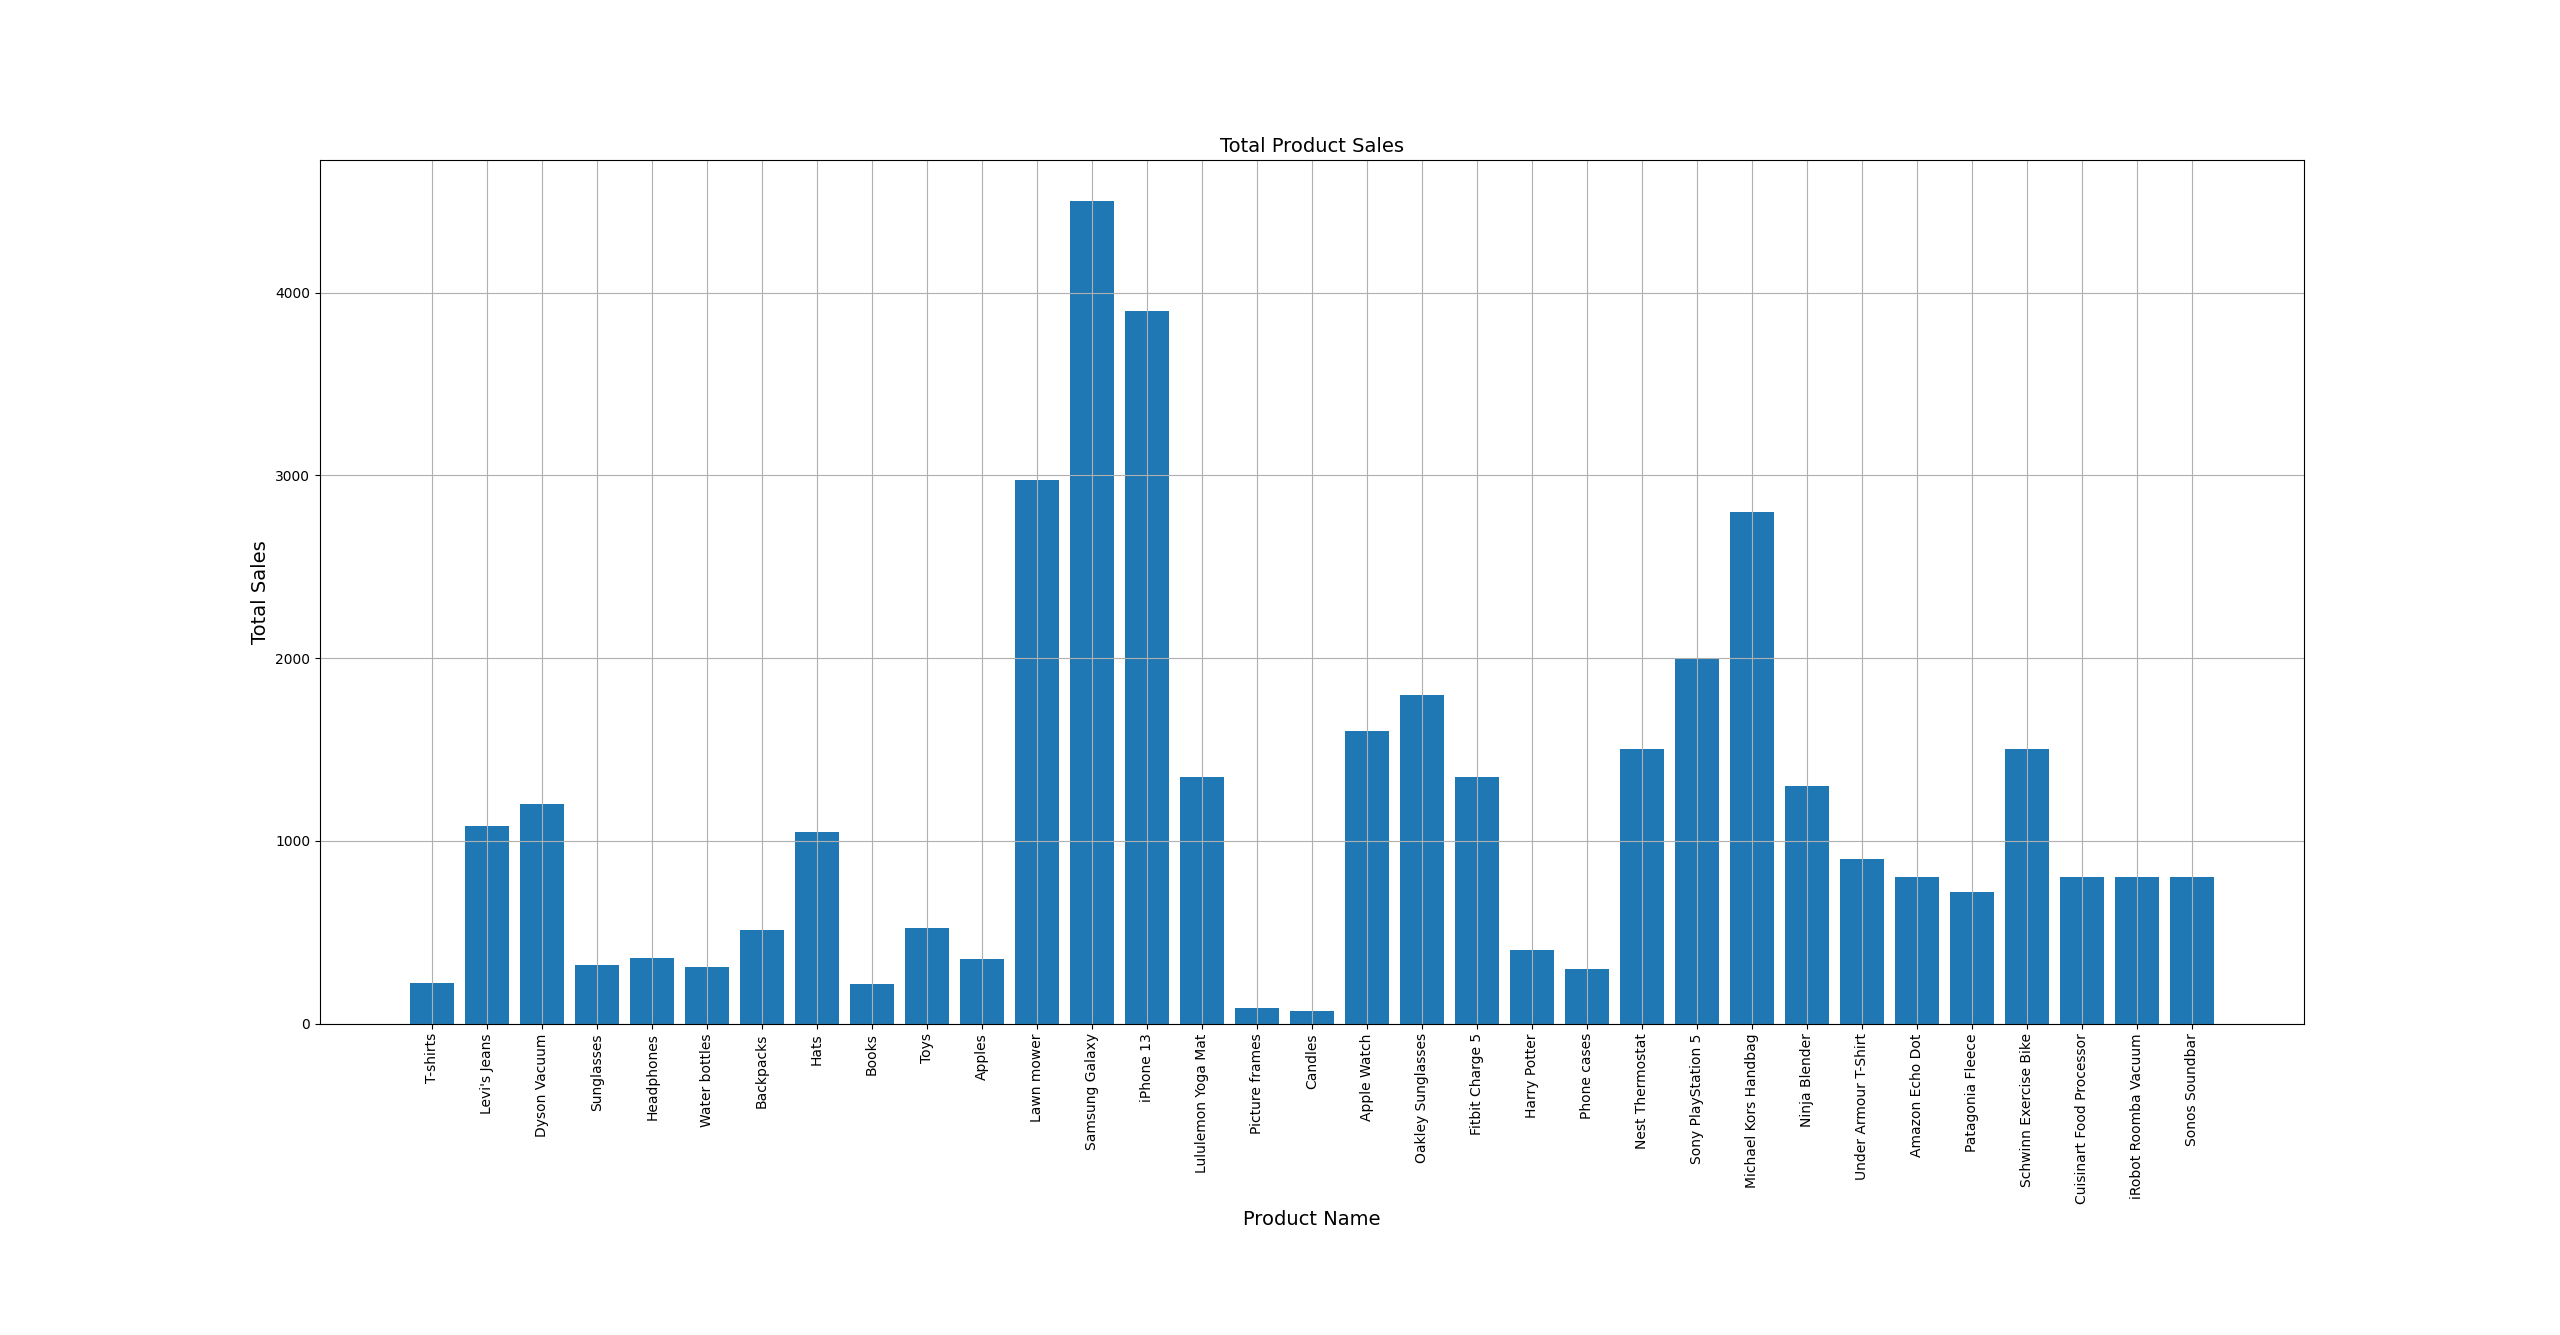
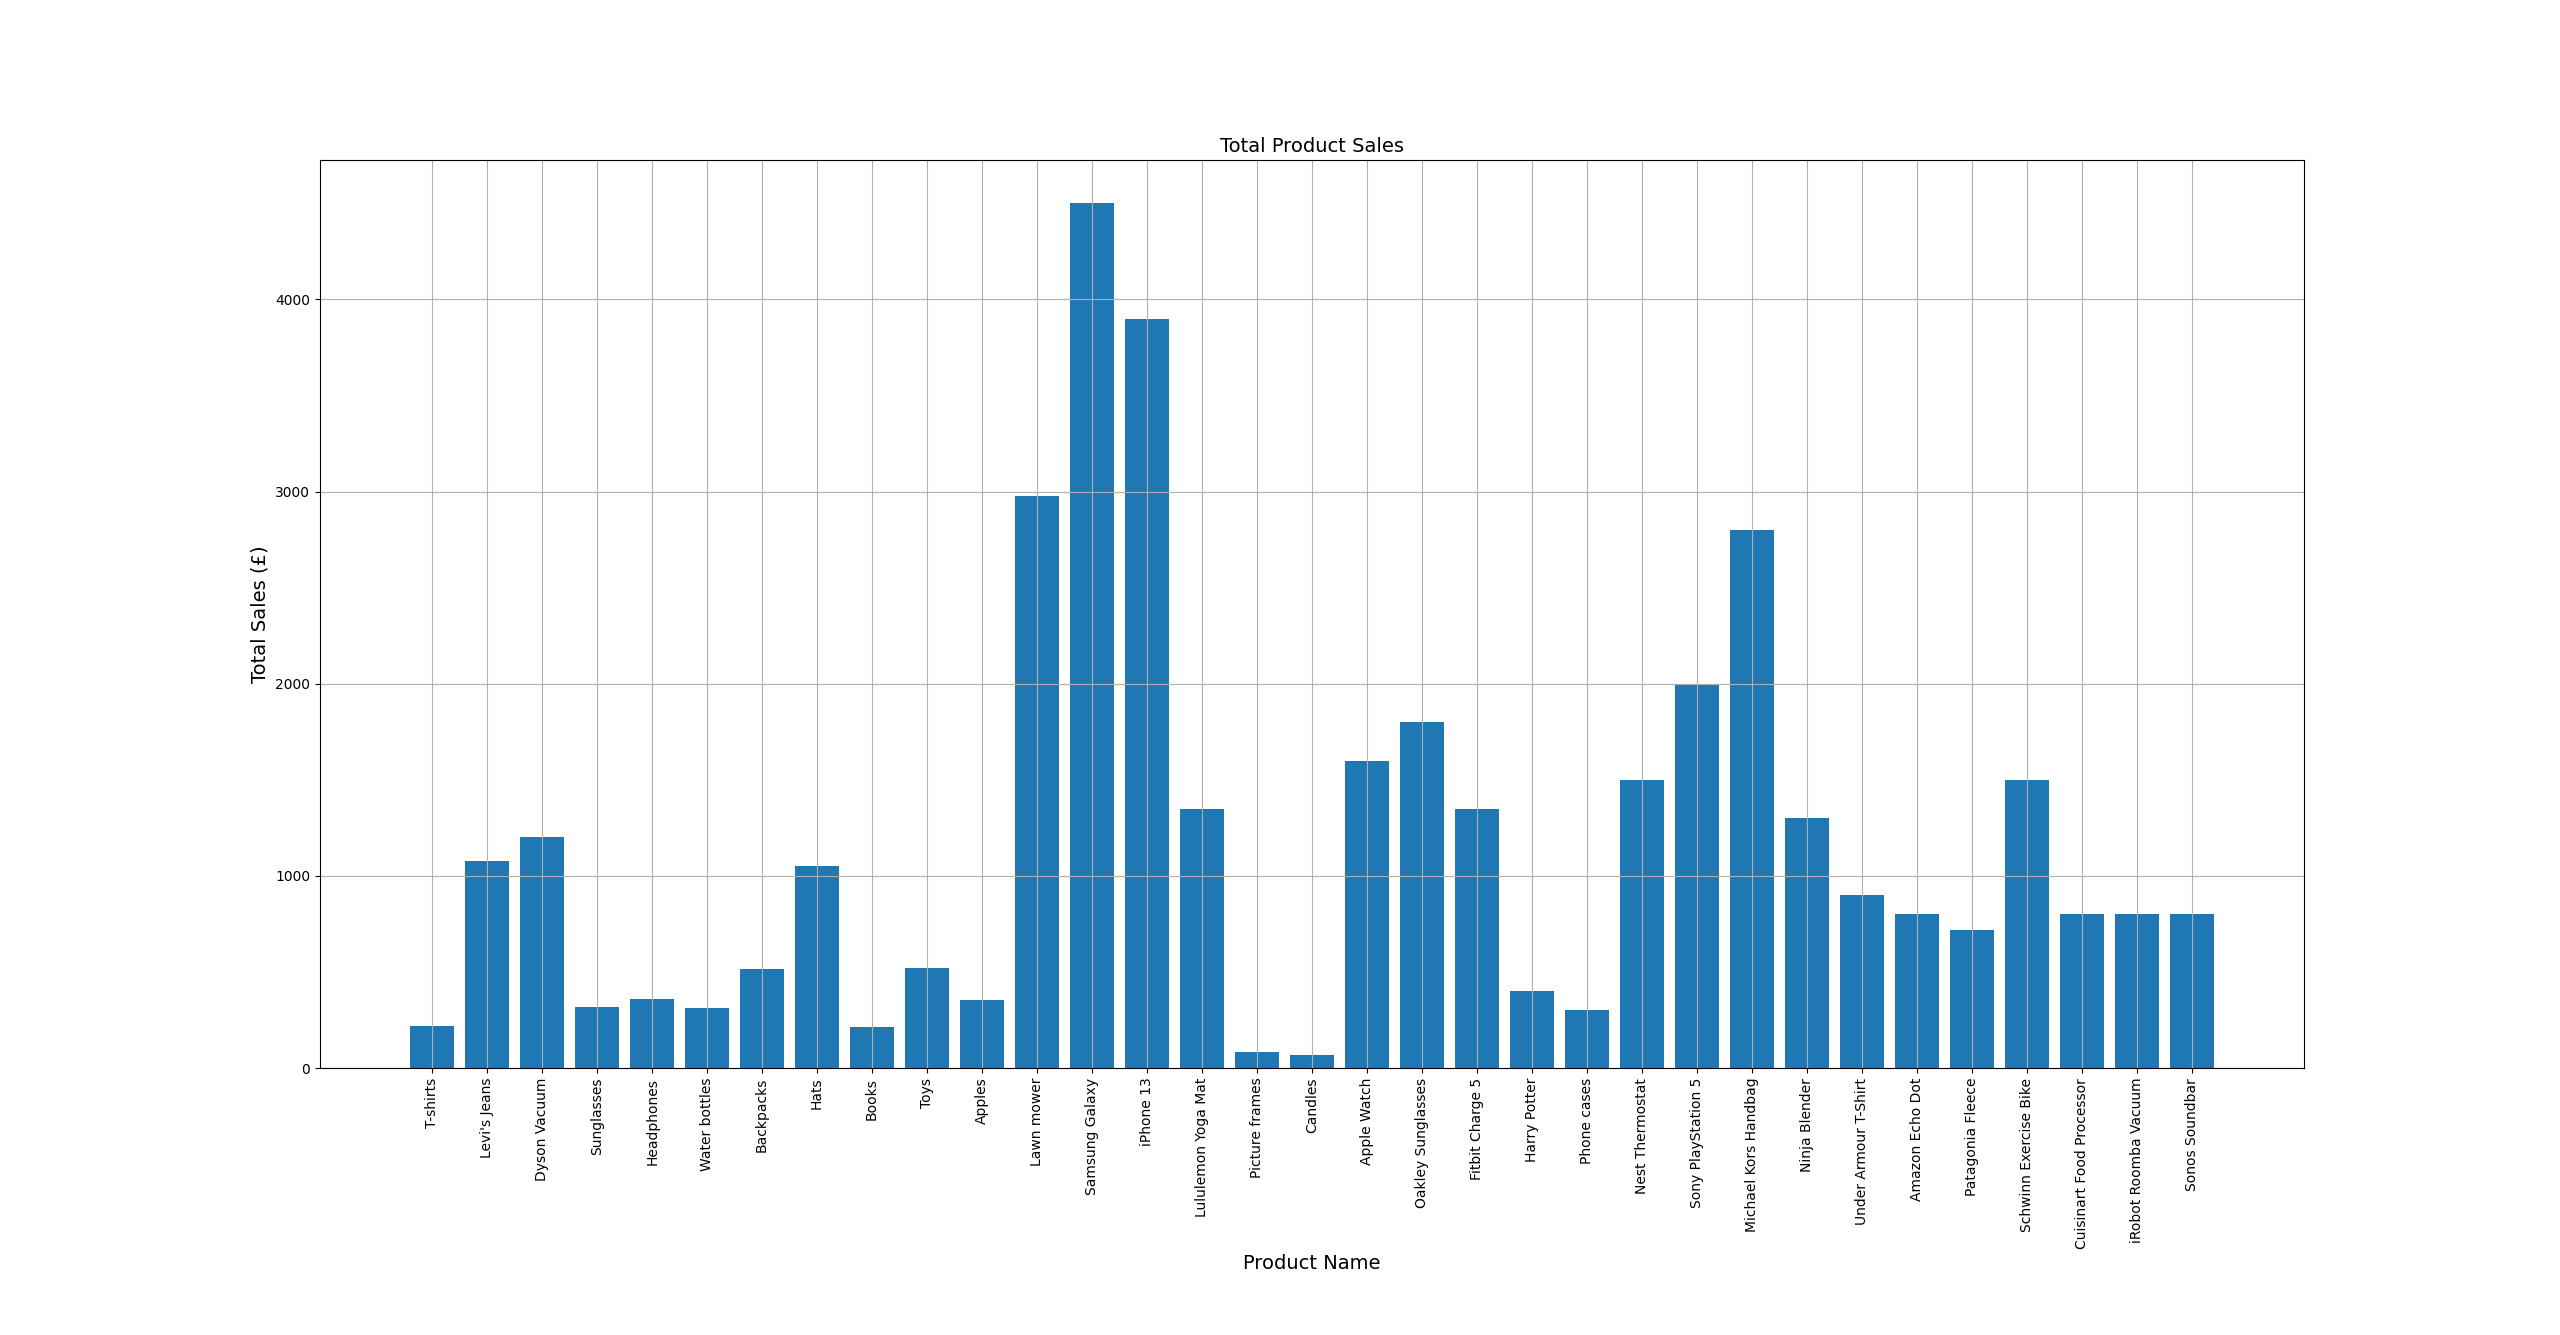
corrected error in naming convention on charts

diff --git a/customer_comparison.py b/customer_comparison.py
@@ -9,8 +9,6 @@ df['Total Money Spent'] = df['Quantity Sold'] * df['Sale Price']
 
 print("Total Money Spent by Customer in descending order")
 print()
-# THe below function does what the pivot table does
-# df.groupby('Customer Name')['Total Money Spent'].max().reset_index().sort_values(['Total Money Spent'], ascending=False)
 
 # create pivot table that uses 'Total money Spent' and adds them based on customer
 customer_sales = df.pivot_table(index=['Customer Name'], values=['Total Money Spent'], aggfunc='sum')
@@ -31,7 +29,7 @@ colours = ['#f0a8ef', '#a8b2f0', '#a8f0ca', '#caa8f0', '#eaf0a8', '#f0a8a8', '#9
 plt.bar(df2["Customer Name"], df2["Total Money Spent"], color=colours)
 plt.title("Total Customer Spending", fontsize=16)
 plt.xlabel("Customer", fontsize=14)
-plt.ylabel("Total Amount Spent", fontsize=14)
+plt.ylabel("Total Amount Spent (£)", fontsize=14)
 plt.grid(True)
 plt.show()
 

diff --git a/monthly_comparisons.py b/monthly_comparisons.py
@@ -19,7 +19,7 @@ print(sort_monthly_sales)
 
 
 # write the sorted table to csv file
-sort_monthly_sales.to_csv('month_comparisons.csv')
+sort_monthly_sales.to_csv('csv_files/month_comparisons.csv')
 
 
 # colours to be used for charts
@@ -39,7 +39,7 @@ plt.show()
 plt.bar(df2["Month"], df2["Total Sales"], color=colours)
 plt.title("Total Sales per Month", fontsize=16)
 plt.xlabel("Month", fontsize=14)
-plt.ylabel("Total Sales", fontsize=14)
+plt.ylabel("Total Sales (£)", fontsize=14)
 plt.grid(True)
 plt.show()
 
